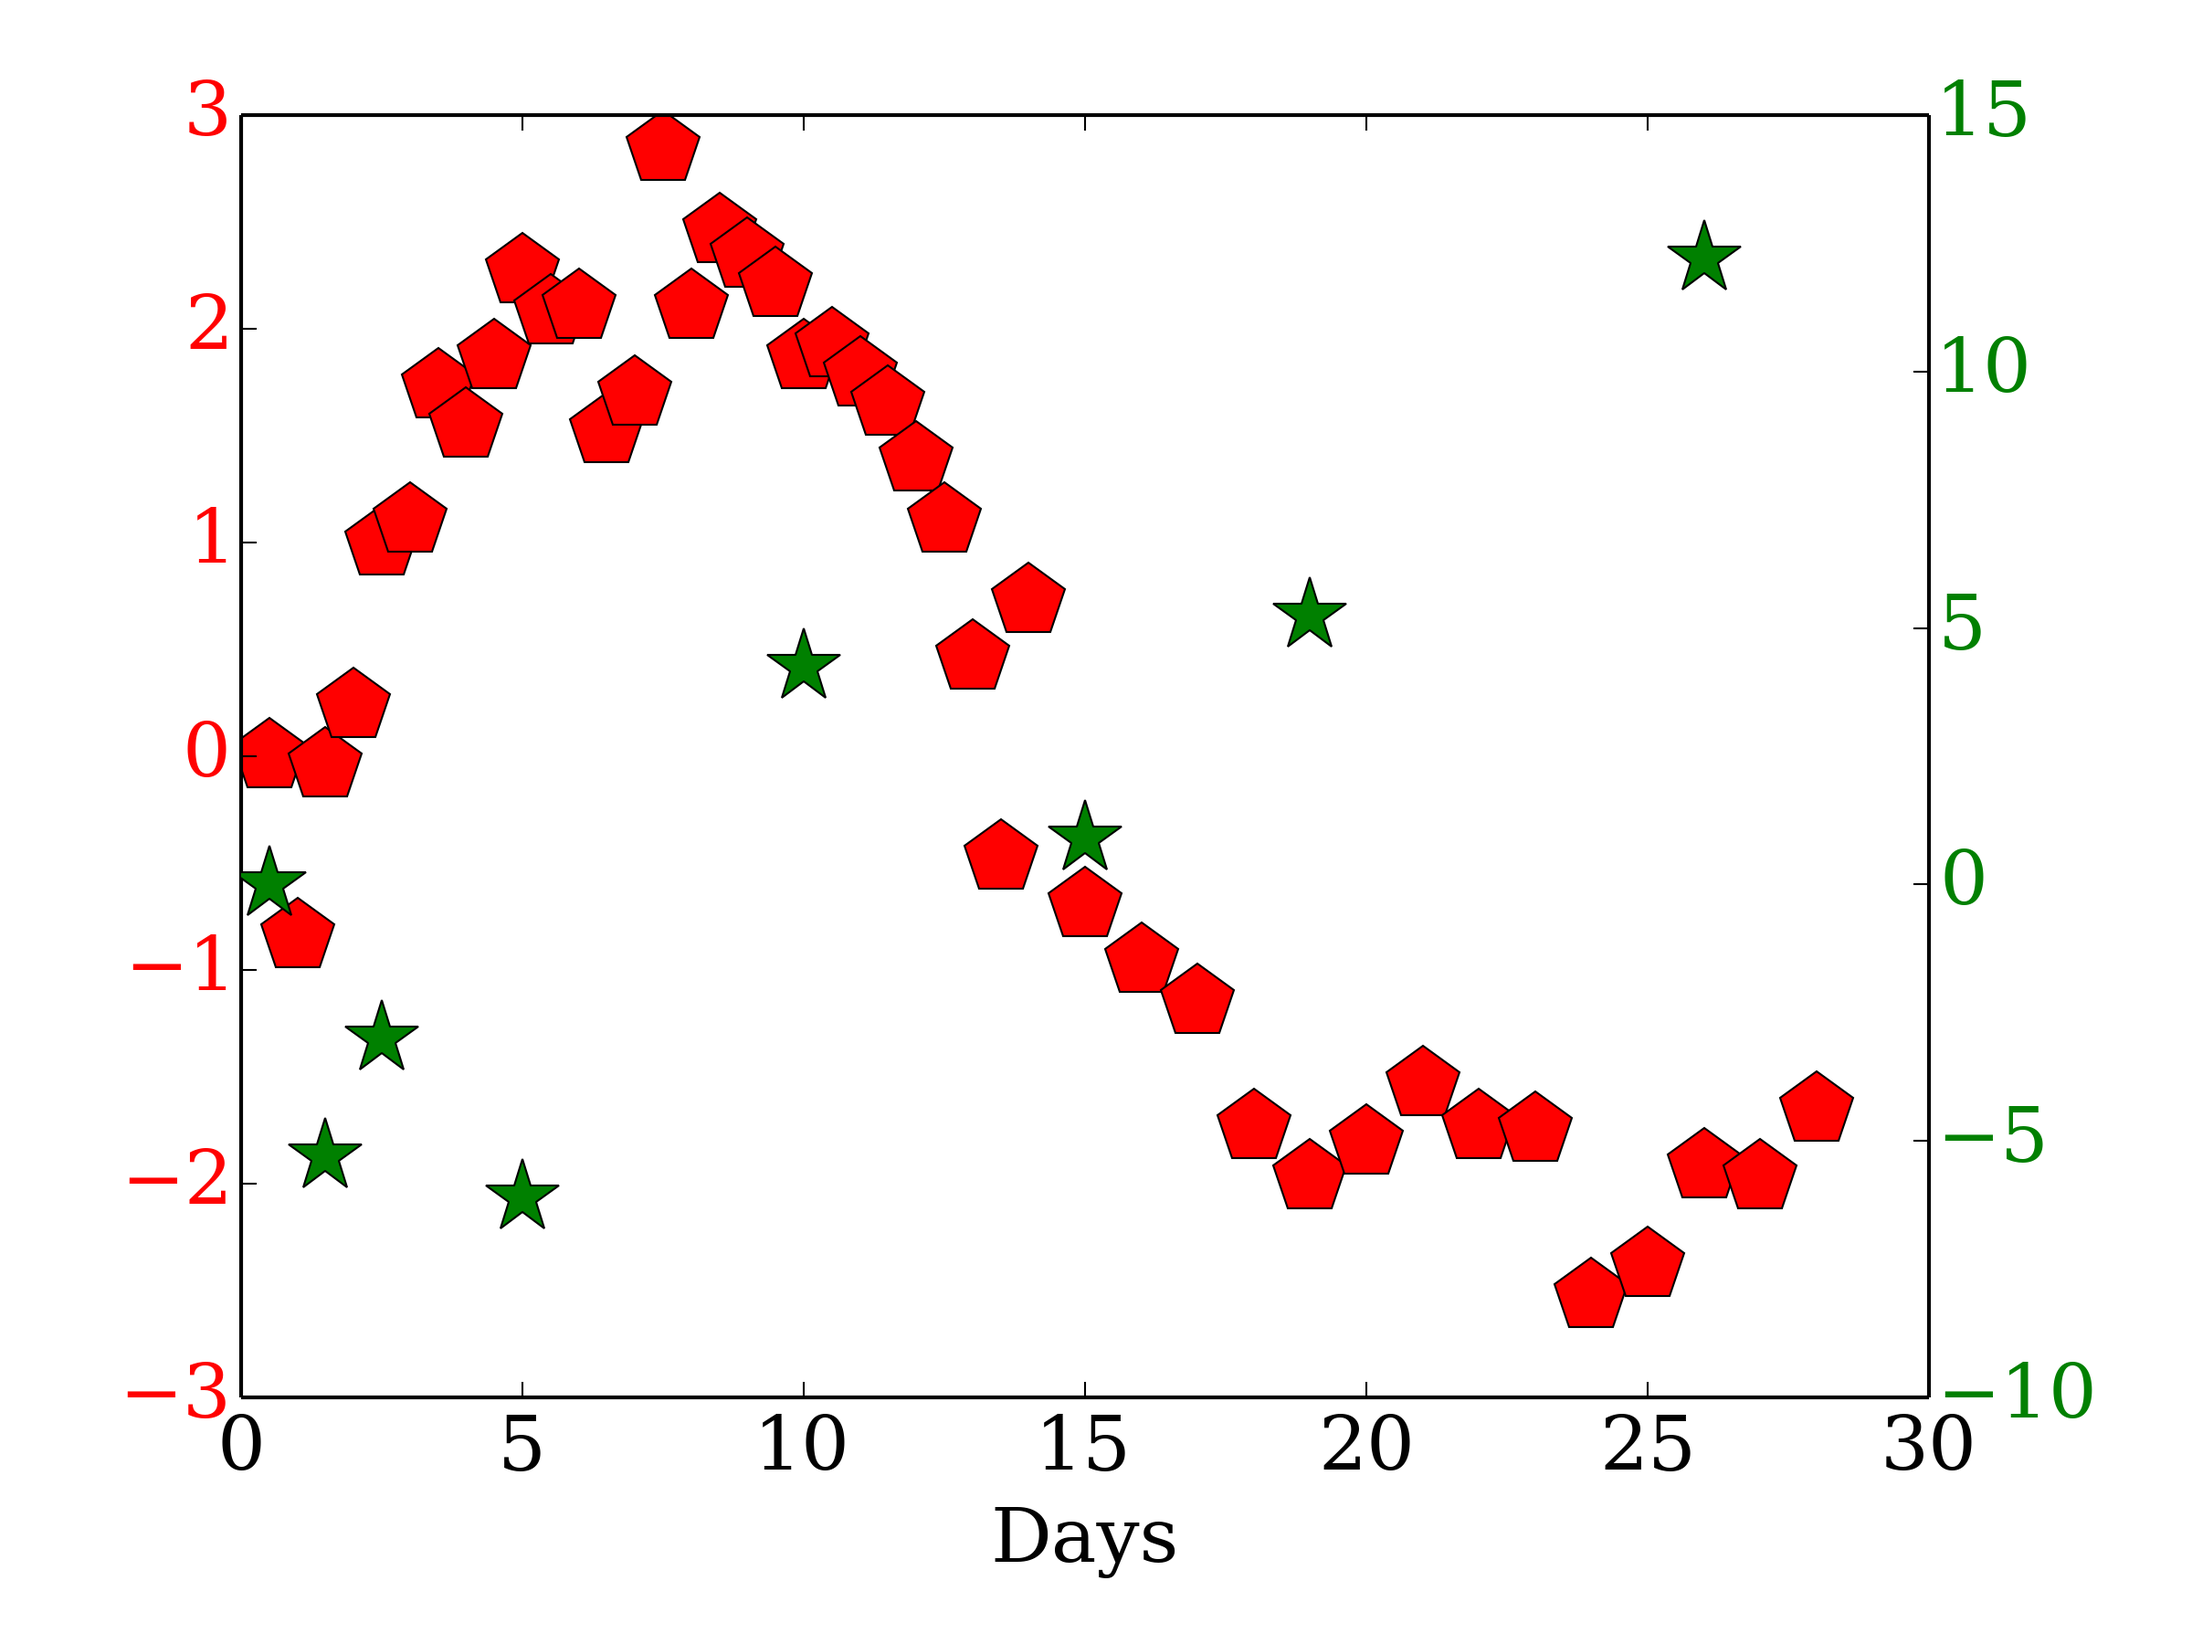
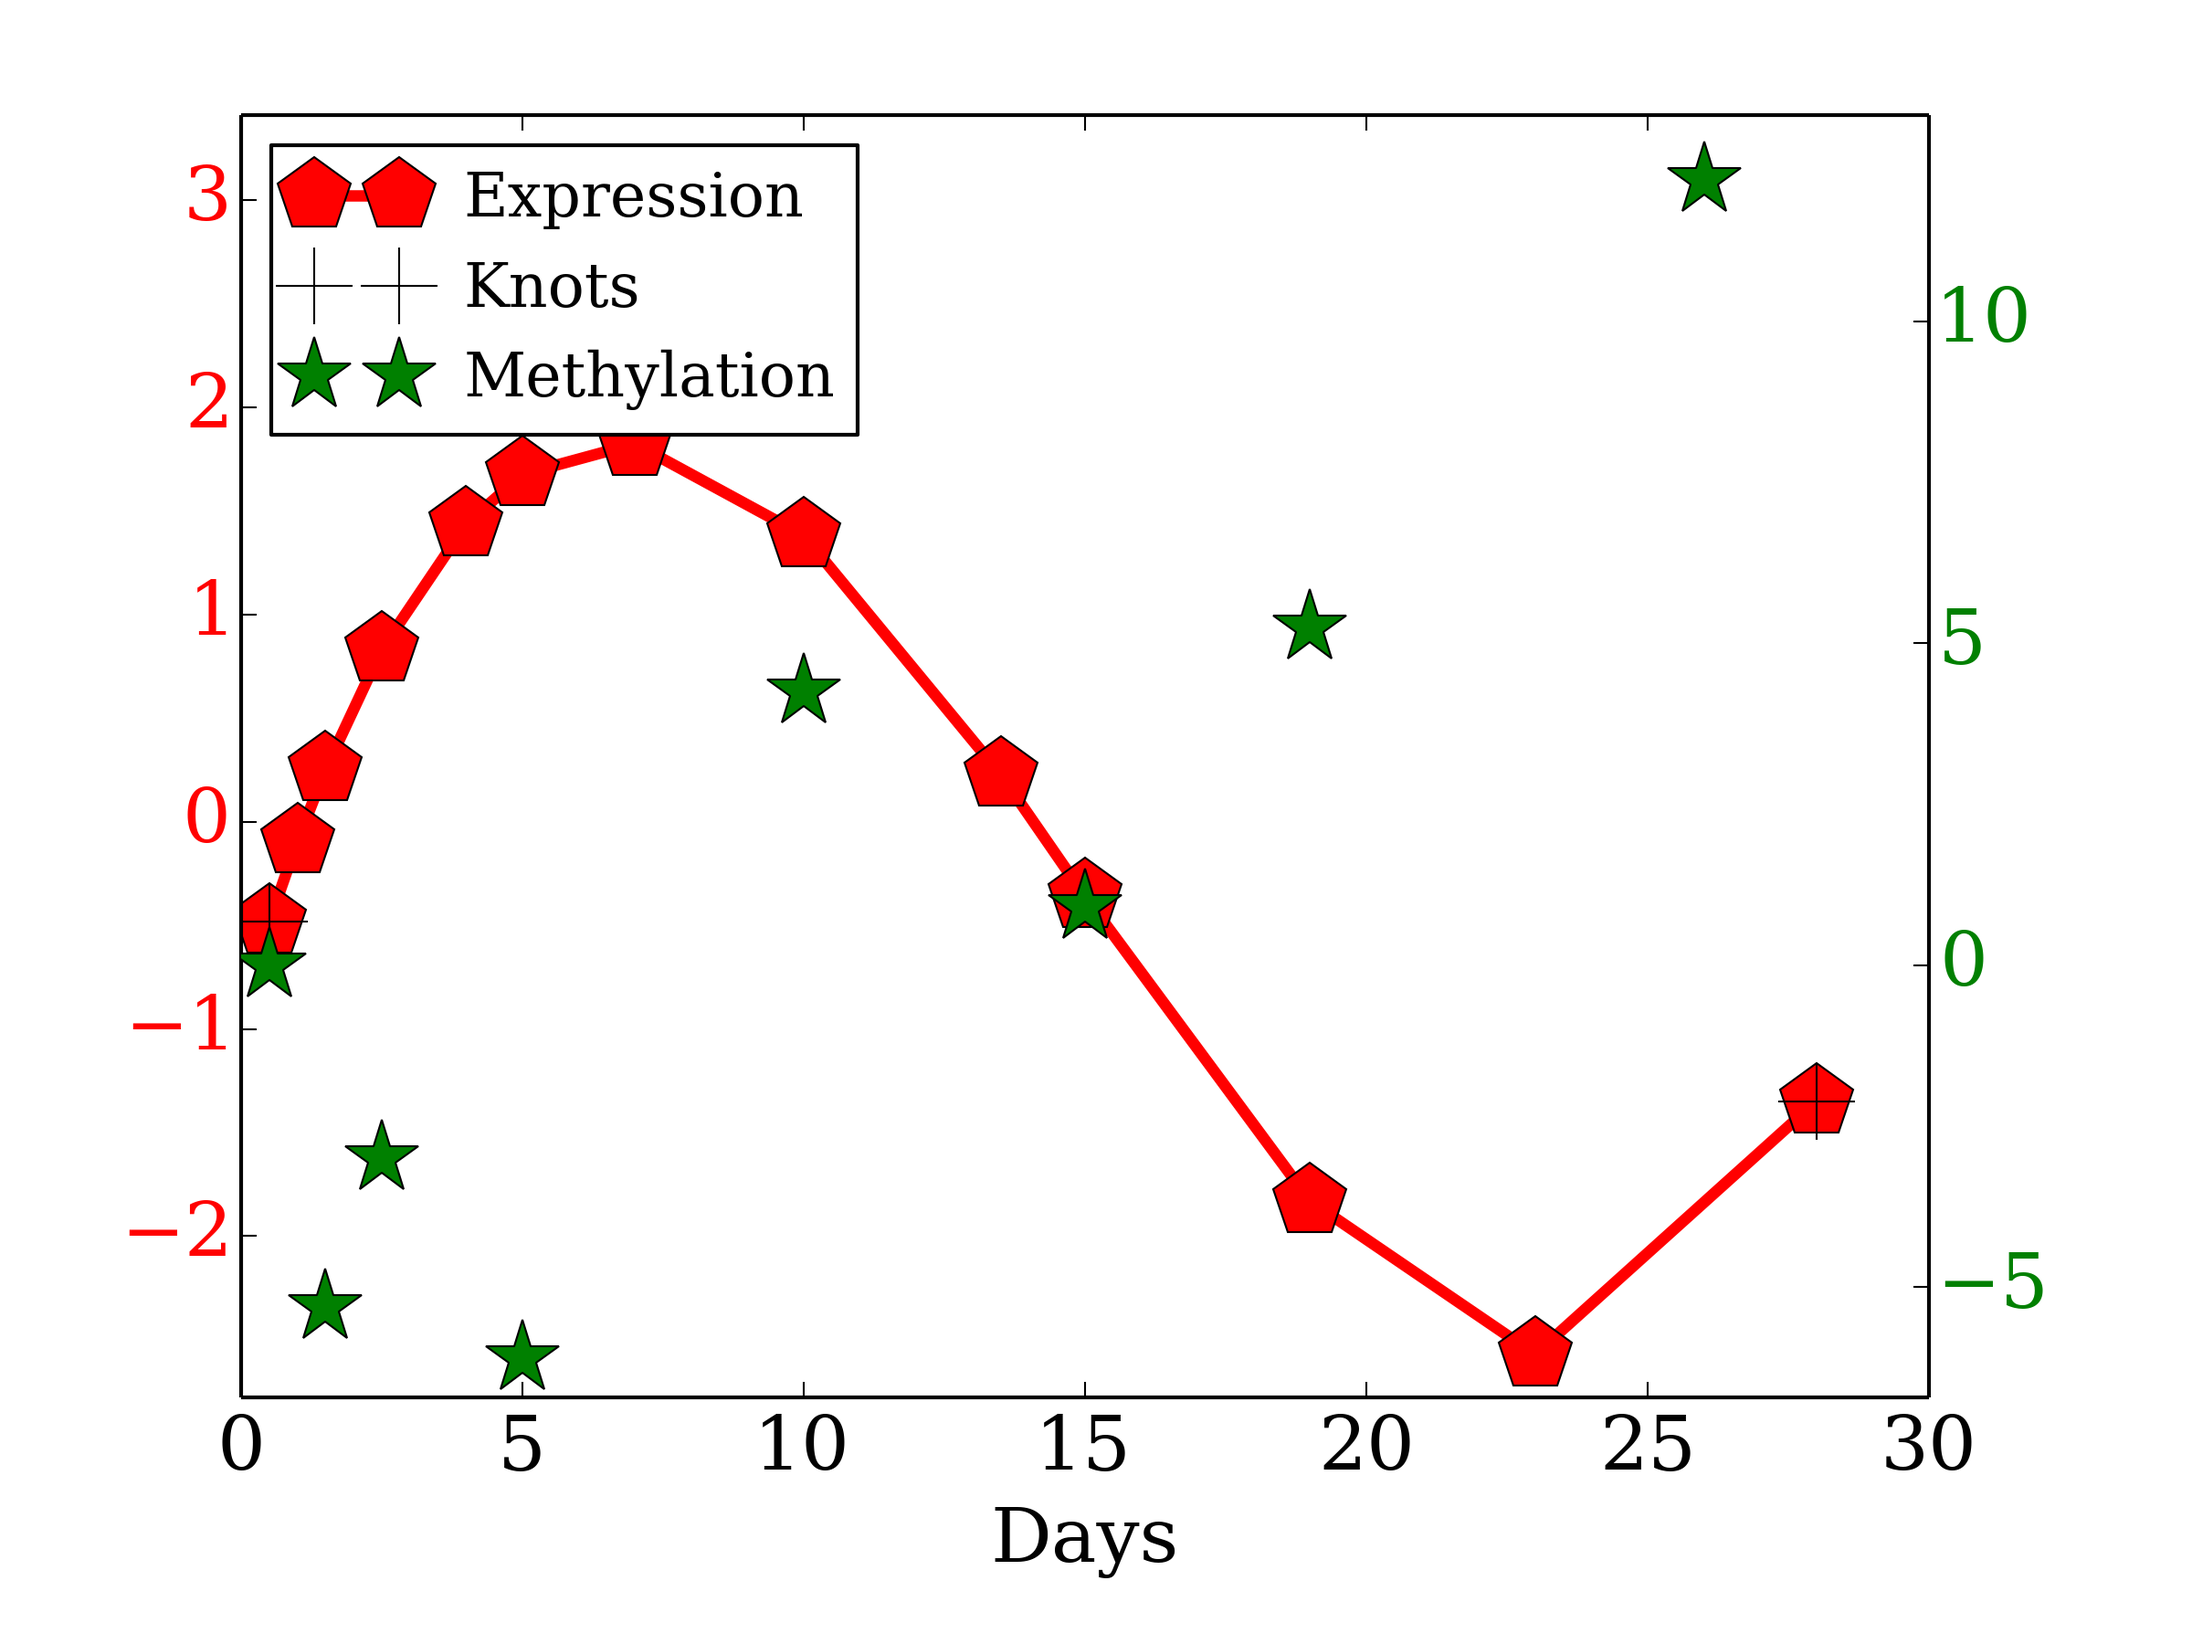
9/14/2015:9.00

diff --git a/meth/histonereader.py b/meth/histonereader.py
@@ -799,21 +799,21 @@ def readExpression():
     return expgene2data
 
 
-def makeJointPlot(histarr,exparr,plotpath):
+def makeJointPlot(histarr,exparr,genespl,geneknots,genetimes,plotpath):
     """make joint plot
     Args:
-       histarr:
-       exparr:
+       histarr,exparr:
+       genespl,geneknots,genetimes:
        fpath:
     Returns:
-    """
+    """    
     plt.clf()
     plt.rc('font', family='serif', size=20)
     fig = matplotlib.pyplot.gcf()
     fig.set_size_inches(13,10)
     FSIZE = 20
     YFSIZE = 20
-    LEGENDSIZE = 25 
+    LEGENDSIZE = 16
     MARKERSIZE = 20
     DPI = 300
 
@@ -826,9 +826,11 @@ def makeJointPlot(histarr,exparr,plotpath):
     xvals = sorted(list(set(histxvals + expxvals)))
 
     fig, ax1 = plt.subplots()
-    ymax,ymin = max(allyvals)*1.1, min(allyvals)*1.1 if min(allyvals) < 0 else min(allyvals)*0.9
-    #plt.ylim(ymin-0.2,ymax+0.2)
+    #ymax,ymin = max(allyvals)*1.1, min(allyvals)*1.3 if min(allyvals) < 0 else min(allyvals)*0.8
+    expymax,expymin = max(expyvals)*1.2, min(expyvals)*1.1
+    histymax,histymin = max(histyvals)+1.0, min(histyvals)*1.1
     plt.xlim(0.0,max(xvals)+0.5)
+    
     locpos = 4
     xlabel = "Days"
     ylabel = ""
@@ -837,20 +839,26 @@ def makeJointPlot(histarr,exparr,plotpath):
 
     expoutx = sorted(exparr.keys())
     expouty = [exparr[ttime][0] for ttime in expoutx]
-    ax1.plot(expoutx,expouty,marker="p",markersize=MARKERSIZE,linestyle='None',color="r",label="Expression")
+    ln1 = ax1.plot(genetimes,genespl(genetimes),color="r",markersize=MARKERSIZE,marker="p",lw=3,label="Expression")
+    assert sorted(geneknots) == geneknots
+    knotvals = [scipy.interpolate.splev(knot,genespl._eval_args, der=0, ext=0) for knot in geneknots]
+    ln2 = ax1.plot(geneknots,knotvals,marker="+",markersize=MARKERSIZE,linestyle='None',color="k",label="Knots")
+    #ax1.plot(expoutx,expouty,marker="p",markersize=MARKERSIZE,linestyle='None',color="r",label="Expression")
     expoutx = sorted(histarr.keys())
     expouty = [histarr[ttime][0] for ttime in expoutx]
     ax2 = ax1.twinx()
-    ax2.plot(expoutx,expouty,marker="*",markersize=MARKERSIZE,linestyle='None',color="g",label="Methylation")
-    #plt.plot(usetimes,outspl(usetimes),symmap["colors"]["spline"],lw=3,label=symmap["labels"]["spline"])
+    ln3 = ax2.plot(expoutx,expouty,marker="*",markersize=MARKERSIZE,linestyle='None',color="g",label="Methylation")
+    ax1.set_ylim(expymin,expymax)
+    ax2.set_ylim(histymin,histymax)
+    
     for tl in ax2.get_yticklabels():
         tl.set_color('g')
     for tl in ax1.get_yticklabels():
         tl.set_color('r')    
-    
-    #ax = plt.axes()        
-    #ax.xaxis.grid()          
-    #plt.legend(loc=locpos,prop={'size':LEGENDSIZE})
+
+    lns = ln1+ln2+ln3
+    labs = [l.get_label() for l in lns]
+    plt.legend(lns, labs, loc=0,prop={'size':LEGENDSIZE})
     plt.subplots_adjust(left=0.11, right=0.88, top=0.93, bottom=0.15) 
     plt.savefig(plotpath, dpi=DPI)
 
@@ -882,13 +890,34 @@ def mapHistoneData(moddata,gene2pos):
     return histgene2data
 
 
-def plotBestMatch(moddata,expgene2data,gene2pos,ofolder,times):
+def fitSpline(linedata,fixedpoints):
+    """fit spline to given points
+    Args:
+       linedata:
+       fitpoints:
+    Returns:
+       inspl:
+       curknots:
+    """
+    reglambda = 5.0
+    allpoints = sorted(linedata.keys())
+    usepoints = sorted(fixedpoints)
+    userempoints = list(set(allpoints) - set(usepoints))
+    inyvals = [linedata[rpoint][0] for rpoint in usepoints]
+    inspl = scipy.interpolate.UnivariateSpline(usepoints, inyvals, s=reglambda, k=3)
+    curknots = list(inspl.get_knots())
+    print "num knots: ",len(curknots)
+    return inspl,curknots
+
+
+def plotBestMatch(moddata,expgene2data,gene2pos,ofolder,times,genetimepoints):
     """best match for each gene
     Args:
        moddata,expgene2data:
        gene2pos:
        ofolder:
        times:
+       genetimepoints: time points for gene expression
     Returns:
     """
     histgene2data = mapHistoneData(moddata,gene2pos)
@@ -911,9 +940,10 @@ def plotBestMatch(moddata,expgene2data,gene2pos,ofolder,times):
             if locsim >= maxsim:
                maxsim = locsim 
                maxind = tind
-        print tgene, maxsim         
+        print tgene, maxsim
+        inspl,curknots = fitSpline(expgene2data[tgene2],genetimepoints)
         fpath = "{0}/{1}.png".format(ofolder,tgene)
-        makeJointPlot(histgene2data[tgene][maxind],expgene2data[tgene2],fpath)
+        makeJointPlot(histgene2data[tgene][maxind],expgene2data[tgene2],inspl,curknots,genetimepoints,fpath)
         gene2corr[tgene] = maxsim
     
     pearsonpath = "{0}/genepearson.txt".format(ofolder)
@@ -936,6 +966,7 @@ for gene in gene2pos.keys():
     count += len(gene2pos[gene])
 print count    
 
+usetimepoints = [0.5, 1.0, 1.5, 2.5, 4, 5, 7, 10, 13.5, 15, 19, 23, 28]   
 fname = "pDataaug24.csv"            
 name2time,time2name = readSampleTarget(fname)
 times = sorted(list(set([float(item.replace("P","").replace("a","").replace("b","").replace("c","")) for item in time2name.keys() if item.startswith("P")])))
@@ -947,11 +978,11 @@ data,ind2name,ind2gene = readData(fname)
 moddata = makeData(data,ind2gene,ind2name,name2time)
 
 expgene2data = readExpression()
+
 ofolder = "jointfigures_best"
 if not os.path.exists(ofolder):
    os.makedirs(ofolder)
-plotBestMatch(moddata,expgene2data,gene2pos,ofolder,times)
-exit(1)
+plotBestMatch(moddata,expgene2data,gene2pos,ofolder,times,usetimepoints)
      
 #Average figures
 gene2datadict = {}
@@ -970,7 +1001,7 @@ histgene2data = {}
 for usegene in usegenes:
     outdict = {ttime: [round(np.median(gene2datadict[usegene][ttime]),5)] for ttime in gene2datadict[usegene].keys()}
     histgene2data[usegene] = deepcopy(outdict)
-  
+ 
 allgene2corr = {}
 ofolder = "jointfigures_average"
 if not os.path.exists(ofolder):
@@ -988,12 +1019,11 @@ for tgene in histgene2data.keys():
     tout = [histgene2data[tgene][ttime][0] for ttime in times]
     simil = scipy.stats.pearsonr(tout,globtout)[0]
     print tgene, simil
+    inspl,curknots = fitSpline(expgene2data[tgene2],usetimepoints)
     fpath = "{0}/{1}.png".format(ofolder,tgene)  
-    allgene2corr[tgene] = maxsim
-    makeJointPlot(histgene2data[tgene],expgene2data[tgene2],fpath)
-    
+    allgene2corr[tgene] = simil
+    makeJointPlot(histgene2data[tgene],expgene2data[tgene2],inspl,curknots,usetimepoints,fpath)
 print allgene2corr
-print gene2corr
 exit(1)
 
 yvallist = deepcopy(moddata)
